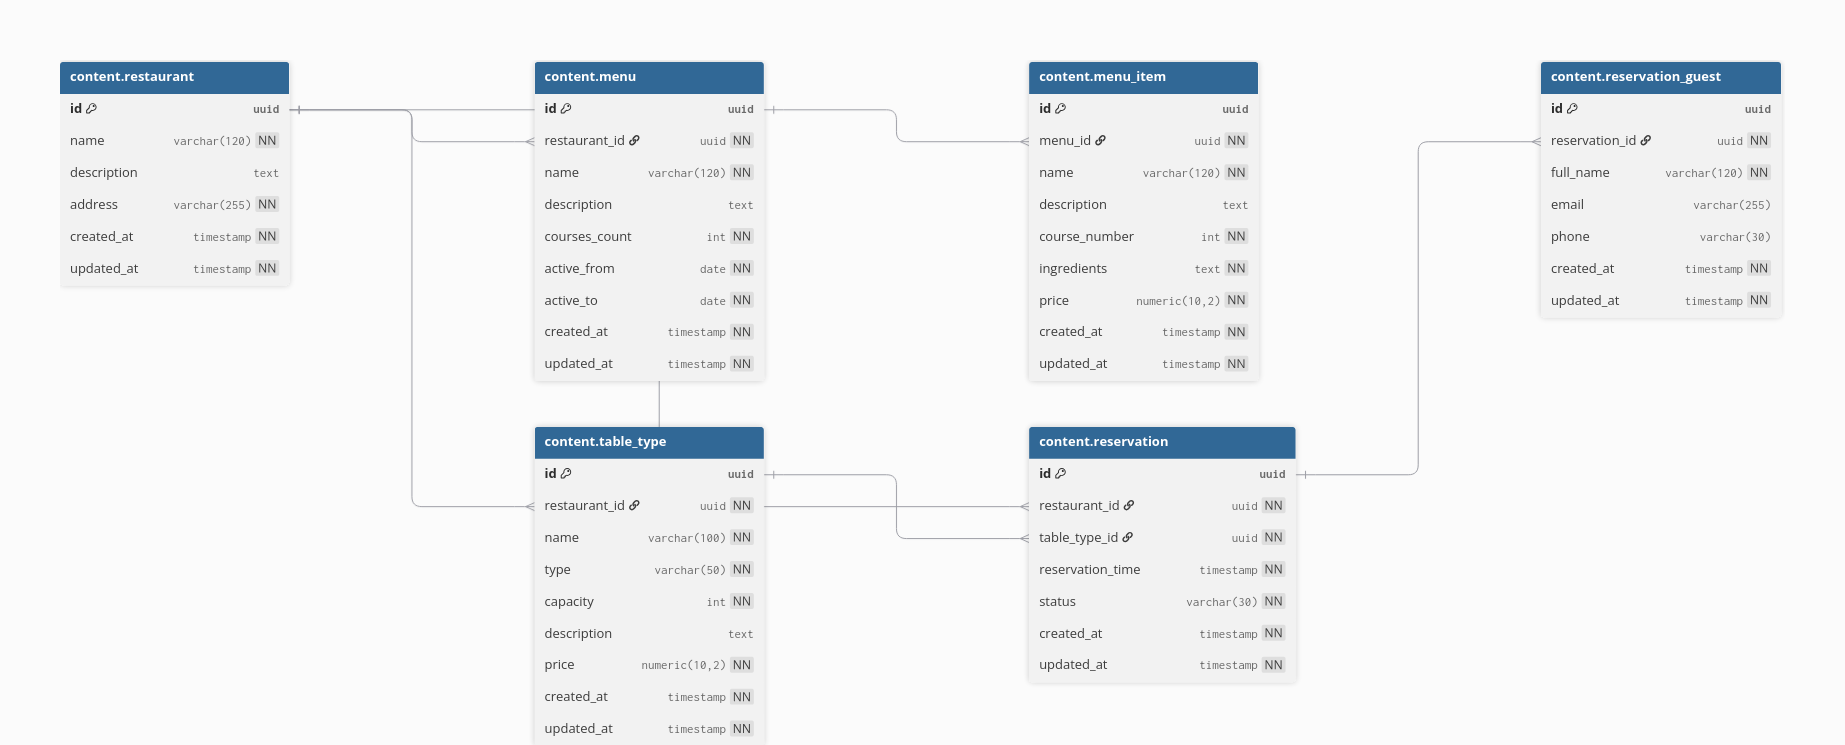
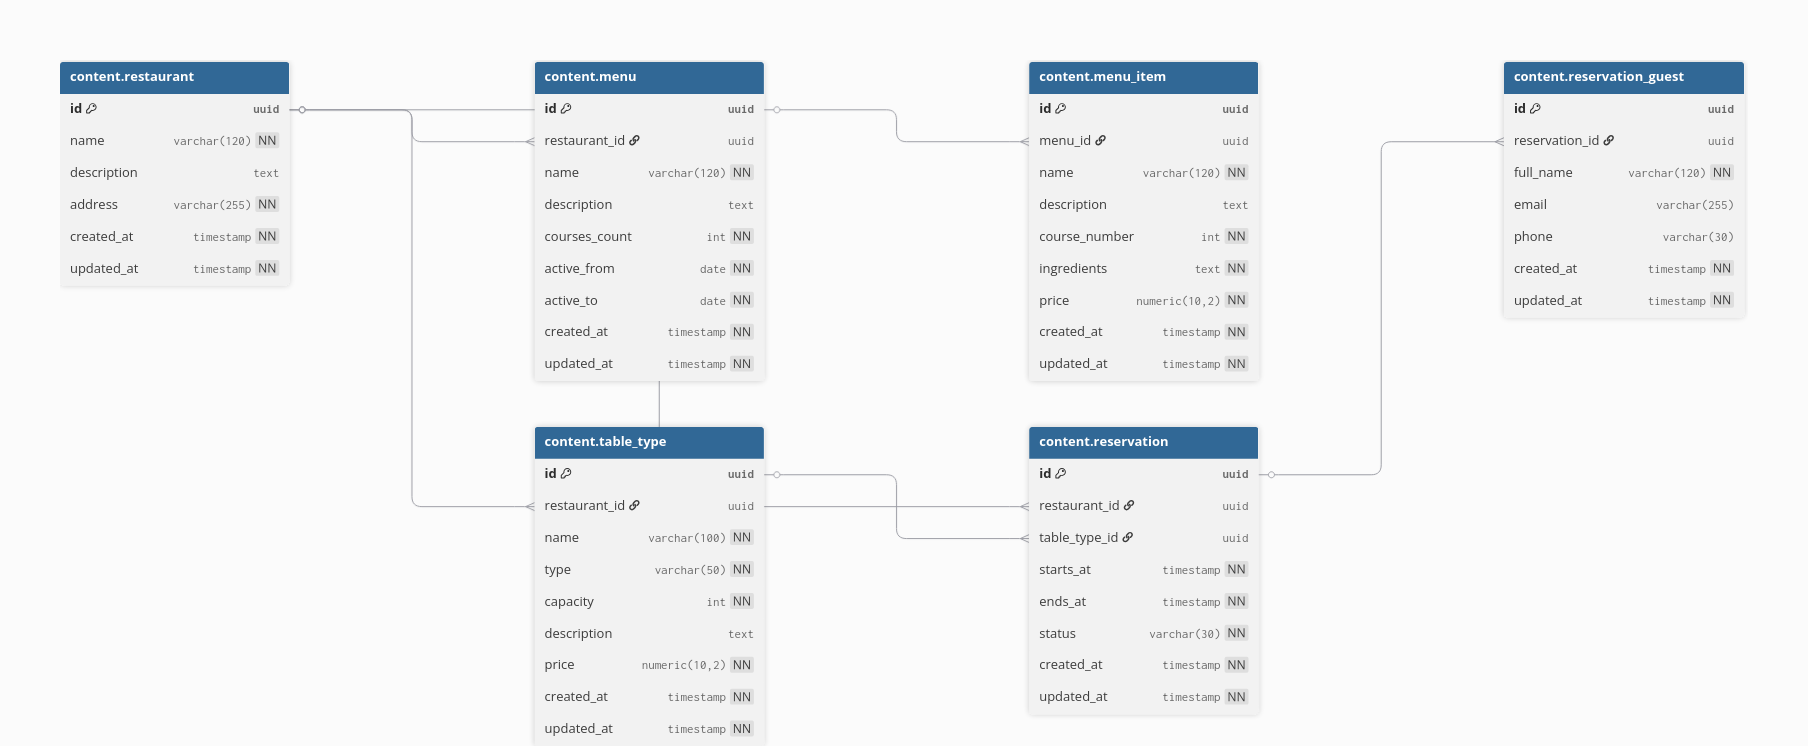
cambios finales, readme

diff --git a/README.md b/README.md
@@ -44,16 +44,158 @@ docker compose up -d --build
 │   └── ui
 
 ```
+5.1.- El diseño de la insfrastructura la app basado en los requerimientos que recibimos del Product Owner antes que se vaya de vacaciones, es el siguiente:
 
-5.1.- El diseño de la base de datos se encuentra en la carpeta `db-desing`, esta tambien cuenta con un script de inicialización de registros, apróximadamente 300-500 registros.
+![Diagrama infra](./diagramas/infrastructure.png)
+
+
+Contamos con un `frontend` básico, servido en un servidor web como `nginx` y a la misma vez este frontend consume la api desarrollada en `fastapi` para un deploy más rapido, esta api esta deployada en un servidor uvicorn para aprovechar las capacidades del asincronimos de `fastapi`, en el que se lo consume a través de un proxy reverse en nginx. Esta api solo se encargara de hacer consultas, nada de escrituras.
+
+De la misma manera el modulo de `admin` esta desarrollado en `Django`, esto porque tal como los requerimientos especificaron **velocidad**, que mejor que un framework que nos ofrece todo un modulo de `Admin` a la distancia de un comando, de la misma manera, este modulo esta deployado en un servidor sincrono como WSGI - gunicorn, y servimos los archivos estaticos del modulo de `Admin` en el servidor nginx, y realizamos un proxy reverse hacia el servidor del modulo `Admin`. Este modulo se encargara de administrar toda la aplicación como tal, modificar registros, borrar, crud, etc.
+
+De esta manera, tenemos los 2 modulos requeridos centralizados, y un proxy reverse que actua como escudo y podemos configurarlo de tal forma que las apis no esten expuestas al mundo exterior, y toda peticion pase por el escudo
+
+Y todo esto esta en la DNS que docker nos permite usar, al momento de levantar los contenedores.
+
+```nginx
+server {
+    listen 80;
+    
+    server_tokens off;
+
+    location / {
+        root /usr/share/nginx/html;
+        index index.html;
+        try_files $uri $uri/ /index.html;
+    }
+    location /static/ {
+        alias /app/staticfiles/;
+    }
+
+    location /media/ {
+        alias /app/media/;
+    }
+    location /api/v1/ {
+        proxy_pass http://api:8000/api/v1/;
+        proxy_set_header Host $host;
+        proxy_set_header X-Real-IP $remote_addr;
+        proxy_set_header X-Forwarded-For $proxy_add_x_forwarded_for;
+    }
+    location /admin/ {
+        proxy_pass http://admin:8000/admin/;
+        proxy_set_header Host $host;
+        proxy_set_header X-Real-IP $remote_addr;
+        proxy_set_header X-Forwarded-For $proxy_add_x_forwarded_for;
+    }
+   
+}
+```
+5.1.1.- ¿Por qué el uso de Redis?
+
+
+Usar Redis para cachear respuestas pesadas es una estrategia de optimización de latencia y escalabilidad. En el caso de tu base de datos de restaurante (especialmente con 400-500 registros y consultas complejas):
+
+PostgreSQL, por muy rápido que sea, es una base de datos basada en disco (aunque use memoria caché). Cuando ejecutas una consulta, el motor debe:
+
+    Analizar el plan de ejecución.
+
+    Bloquear registros (si es necesario).
+
+    Leer datos de las tablas/índices.
+
+    Construir el resultado.
+
+Redis vive exclusivamente en la RAM. Una respuesta "pesada" (como un reporte de todas las mesas reservadas con sus invitados y detalles del menú) puede tardar 200ms en SQL. En Redis, esa misma respuesta se recupera en menos de 1ms porque es simplemente una lectura de clave-valor.
+
+Si la API recibe 100 visitas por segundo, tu base de datos estará ejecutando 100 veces la misma consulta compleja. Esto genera:
+
+    Consumo de CPU: El servidor SQL se satura haciendo el mismo cálculo.
+
+    Contención de I/O: El disco se vuelve el cuello de botella.
+
+Al usar Redis, la API hace la consulta a SQL solo una vez (cuando la caché está vacía o expiró). Las 99 visitas restantes obtienen la respuesta desde la memoria de Redis, dejando a tu PostgreSQL libre para realizar operaciones críticas de escritura (como nuevas reservas).
+
+5.1.2.- ¿Pero que hacemos si el modulo de `Admin` y la `API` recurren a la misma Base de Datos?
+`Django` nos ofrece una buena solución, ya que si la API guardo en cache una consulta, y el Admin puede ser que modifique algunos registros de esa consulta, la API estara consultando registros no consistentes.
+
+Para esto usamos `Signals`:
+
+```python
+from django.db.models.signals import post_save, post_delete
+from django.dispatch import receiver
+import redis
+import os
+
+r = redis.Redis(host=os.getenv("REDIS_HOST"), port=os.getenv("REDIS_PORT"))
+
+from .models import TableType, MenuItem, Menu, Reservation
+
+@receiver([post_save, post_delete], sender=TableType)
+def invalidate_table_types(sender, **kwargs):
+    r.delete("table_types:all")
+
+@receiver([post_save, post_delete], sender=MenuItem)
+@receiver([post_save, post_delete], sender=Menu)
+def invalidate_menu(sender, **kwargs):
+    for key in r.scan_iter("menu:*"):
+        r.delete(key)
+
+@receiver([post_save, post_delete], sender=Reservation)
+def invalidate_availability(sender, **kwargs):
+    for key in r.scan_iter("availability:*"):
+        r.delete(key)
+```
+
+
+Los Signals (señales) de Django son una herramienta diseñada para permitir que diferentes partes de tu aplicación se comuniquen entre sí de forma desacoplada. Funcionan bajo el patrón Observer (observador): permiten que un emisor avise a uno o varios receptores cuando ocurre un evento específico.
+
+En términos simples: "Cuando suceda A, ejecuta B", sin que la lógica de "A" tenga que saber nada sobre "B".
+
+De esta manera, cada vez que el modulo Admin de Django ejecute un post o delete, las llaves asociadas a el cache, se borraran, y la API tendra que ir a la Base de Datos para consultar de nuevo.
+
+
+5.2.- El diseño de la base de datos se encuentra en la carpeta `db-desing`, esta tambien cuenta con un script de inicialización de registros, apróximadamente 300-500 registros.
 
 ![Diagrama DB](./diagramas/diagramaRestaurante.png)
 
 La base de datos fue diseñada siguiendo una estructura basada en los requerimientos La entidad `restaurant` actúa como núcleo principal del modelo, ya que representa cada restaurante y se relaciona con múltiples tipos de mesa (`table_type`), menús (`menu`) y reservas (`reservation`). Esta separación permite mantener la información organizada por restaurantes, evitando redundancia de datos y facilitando futuras ampliaciones del sistema. Las entidades `menu` y `menu_item` fueron divididas para representar correctamente la relación entre un menú y los distintos platos o cursos que lo componen, permitiendo manejar menús degustación de varios tiempos de manera flexible.
 
-Por otro lado, la entidad `reservation` centraliza la información de las reservas realizadas, relacionándose tanto con el restaurante como con el tipo de mesa seleccionado. A su vez, `reservation_guest` permite asociar múltiples invitados a una misma reserva, representando una relación uno a muchos necesaria para modelar reservas grupales. Además, las tablas incluyen restricciones, validaciones e índices para garantizar integridad de datos, consistencia y un mejor rendimiento en consultas frecuentes, especialmente en operaciones relacionadas con disponibilidad, horarios y gestión de reservas. 
+Por otro lado, la entidad `reservation` centraliza la información de las reservas realizadas, relacionándose tanto con el restaurante como con el tipo de mesa seleccionado. Esta entidad contiene los atributos `starts_at` y `ends_at` para controlar la duración de reserva. A su vez, `reservation_guest` permite asociar múltiples invitados a una misma reserva, representando una relación uno a muchos necesaria para modelar reservas grupales. Además, las tablas incluyen restricciones, validaciones e índices para garantizar integridad de datos, consistencia y un mejor rendimiento en consultas frecuentes, especialmente en operaciones relacionadas con disponibilidad, horarios y gestión de reservas. 
 
 
 Se le añadieron los indices para optimizar las peticiones de `disponibilidad`:
 Por ejemplo, idx_reservation_time mejora el rendimiento de consultas relacionadas con fechas y horarios de reservas, mientras que idx_reservation_status acelera filtros por estado como reservas confirmadas, pendientes o canceladas. Estos índices permiten que PostgreSQL encuentre la información de manera más eficiente sin recorrer completamente las tablas.
 También se crearon índices sobre claves foráneas como restaurant_id, menu_id y reservation_id, utilizados en relaciones uno a muchos entre entidades como restaurantes, menús, mesas y reservas. Esto optimiza operaciones comunes del sistema, como cargar los tipos de mesa de un restaurante, obtener los platos de un menú o listar los invitados de una reserva, mejorando considerablemente el rendimiento general de la aplicación.
+
+
+5.3 .- Modelado de Entidades del Negocio
+
+
+![Diagrama Bussines](./diagramas/entitiesBussines.png)
+
+
+Las cosas buenas, es un modelo orientado a la base de datos, es un representacion de la base de datos, y esto puede ser contraproducente, pero ya que el Product Owner especifico velocidad y deploy, es necesario usar ORMs para hacerlo rápido.
+
+La entidad Restaurant actúa como un nodo central que organiza de forma jerárquica y lógica los menús y la gestión de disponibilidad mediante tipos de mesa. La separación inteligente entre Reservation y ReservationGuest permite una gran flexibilidad para manejar grupos, mientras que la relación entre Menu y MenuItem ofrece una versatilidad excelente para gestionar ofertas temporales o menús especializados sin duplicar datos innecesarios. 
+
+
+Las cosas malas, se pueden separar más las responsabilidades, hacer una entidad User tal vez, y más cosas.
+
+
+![Diagrama Bussines Services](./diagramas/bussinesServices.png)
+
+
+Luego aqui podemos ver le diseño de los Services es la clave para que la app no se vuelva un caos:
+
+- Desacoplamiento total: Al inyectar db (la sesión asíncrona) y redis dentro de cada servicio, se logra que la lógica de negocio no tenga ni idea de cómo se conectan las cosas, solo sabe qué pedir. Si el día de mañana quieres cambiar la forma en que se conecta a Redis o migrar de DB, solo tocas el servicio, no toda la API.
+
+- Centralización del "Cache-Aside": Los métodos - get_from_cache y - set_cache. Eso es vital. Se encapsula el ruido de Redis (serializar, guardar, expirar) dentro de la clase. El controller no se tiene que enterar de que existe Redis; el controller simplemente llama a get_all() y el servicio se encarga de decidir si sirve el dato fresco de SQL o el rápido de caché.
+
+- Separación de responsabilidades: Esta GetAllTableTypes, Menu y GetAvailability como clases distintas. Eso está de lujo porque cada una tiene una única responsabilidad. GetAvailability es, por lejos, la más compleja (por los argumentos que recibe: date, time, party, etc.), y al tenerla aislada en su propia clase, se puede testear esa lógica matemática de disponibilidad sin que estorbe el resto de la app.
+
+
+Lo malo obviamente es que, algunos servicios son muy grandes, podemos seguir separando responsabilidades, hacerlos mas pequeños, podemos seguir escalando, tal vez pensar en otro arquitectura, tal vez un patrón CQRS, y manejar diferentes bases de datos para consulta y escritura, para el modulo de Admin y la API, de esta manera podriamos aprovechar las ventajas de cada uno. Otros patrones como Repository Pattern, para el acceso a la base de datos, si se fijan, hay metodos repetidos en cada servicio `get_from_cache,set_cache` incumplimos el metodo DRY, tambien el cuello de botella que hay en la consulta `get_availability` es el más propenso a fallar, tal vez con un Bloqueo Optimista, cuando el tráfico suba se podra ver las carencias, pero bueno, eso es lo que pude hacer en un dia. 
+
+
+
+**Enjoy exploring the code!**
